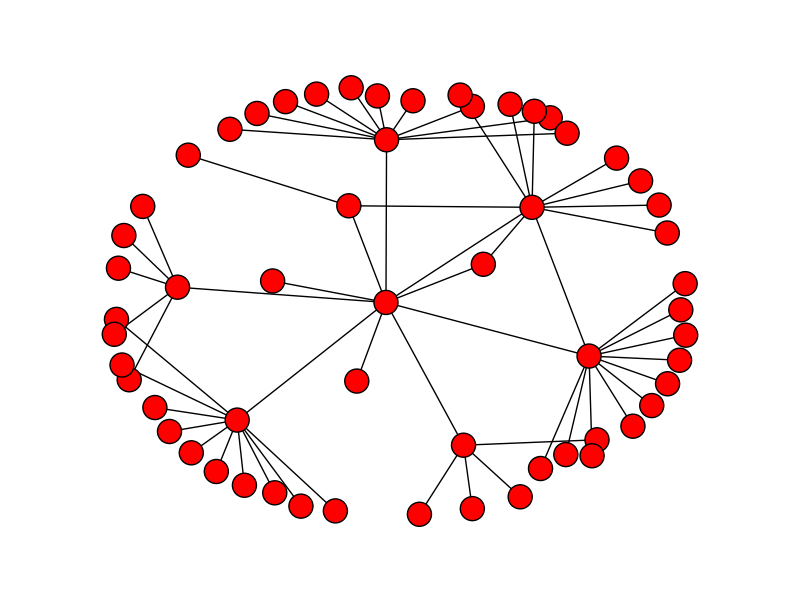
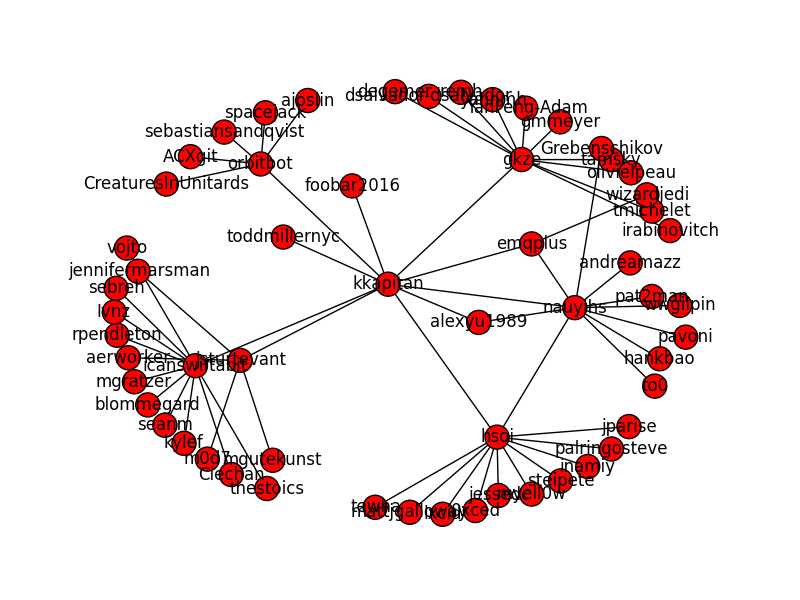
Labels and logging

Changed region(s): [[0.0938, 0.12, 0.9062, 0.9], [0.4062, 0.6, 0.4688, 0.66], [0.5625, 0.63, 0.5938, 0.66]]

diff --git a/test.py b/test.py
@@ -8,6 +8,9 @@ contributors_per_step = 10
 max_depth = 2
 
 def contributors_for_name(name, client):
+    print "Finding contributors for " + name
+
+    print "\t\tFetching " + str(repos_per_step) + " best ranked repos..."
 
     repos = []
     for repo in client.get_user(name).get_repos():
@@ -16,6 +19,10 @@ def contributors_for_name(name, client):
     repos.sort(key=lambda x: x.stargazers_count, reverse=True)
     repos = repos[:repos_per_step]
 
+    print "\t\tDone!"
+
+    print "\t\tFetching " + str(contributors_per_step) + " most common contributors"
+
     contributors_frequency = defaultdict(int)
     for repo in repos:
         for contributor in repo.get_contributors():
@@ -23,6 +30,9 @@ def contributors_for_name(name, client):
                 contributors_frequency[contributor.login] += 1
 
     best_contributors = sorted(contributors_frequency.iteritems(), key=lambda (k,v): v, reverse=True)
+
+    print "\t\tDone!"
+
     return map(lambda (k, v): k, best_contributors[:contributors_per_step])
 
 def network_for_user(name, network, depth, client):
@@ -39,13 +49,13 @@ def network_for_user(name, network, depth, client):
 network = {}
 g = Github("tsiss", "qwerty123")
 
-network_for_user("kkapitan", network, 1, g)
+network_for_user("KrauseFx", network, 1, g)
 
 G=nx.Graph()
 for (name, contributors) in network.iteritems():
     for contributor in contributors:
         G.add_edge(name, contributor)
 
-nx.draw(G)
+nx.draw(G, with_labels=True)
 plt.savefig("simple_path.png")
 plt.show()
